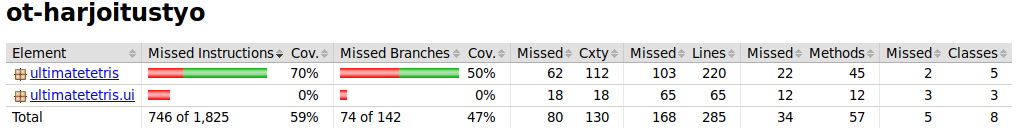
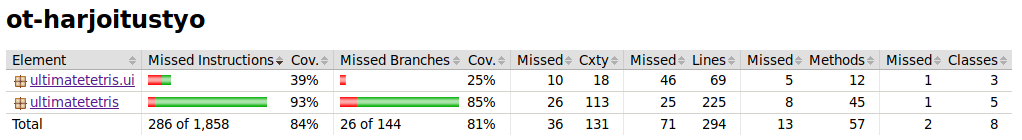
listää testejä commit

Changed region(s): [[0.0, 0.2941, 1.0, 0.9412], [0.0, 0.0, 0.2136, 0.2353]]

diff --git a/Ultimate_2D_Tetris/src/test/java/MainTest.java b/Ultimate_2D_Tetris/src/test/java/MainTest.java
@@ -22,7 +22,9 @@ import static org.junit.Assert.*;
 import ultimatetetris.Main;
 import ultimatetetris.Kentta;
 import ultimatetetris.Kuutio;
+import ultimatetetris.Logiikka;
 import ultimatetetris.Palikka;
+import ultimatetetris.ui.Ui;
 
 /**
  *
@@ -194,10 +196,59 @@ public class MainTest{
     @Test
     public void rivinpuhdistusTest() {
         Kentta ke = new Kentta(20,10);
-        Kuutio k = new Kuutio(10, 5, 30, 30, Color.BLACK, ke);
+        ke.setKohta(10, 5, 2);
+        ke.setKohta(8, 5, 2);
+        ke.setVari(10, 5, 4);
+        ke.setVari(8, 5, 3);
         
         ke.kerrosVaihto(10);
+        assertEquals(0, ke.getKohta(10,5));
+        assertEquals(1, ke.getKohta(9,5));
+        assertEquals(0, ke.getVari(10,5));
+        assertEquals(3, ke.getVari(9,5));
+        
     }
     
+    @Test
+    public void onkotaysiriviTest() {
+        Ui.addTetrisPane();
+        Logiikka.uusiKentta();
+        for (int e = 0;e<10;e++) {
+            Logiikka.getKentta().setKohta(19, e, 1);
+        }
+        Logiikka.onkoTaysiRivi();
+        for (int e = 0; e < 10; e++) {
+            assertEquals(0, Logiikka.getKentta().getKohta(19, e));
+        }
+    }
+    
+    @Test
+    public void updateTest1() {
+        Ui.addTetrisPane();
+        Logiikka.uusiKentta();
+        for (int e = 0; e < 10; e++) {
+            Logiikka.getKentta().setKohta(19, e, 1);
+        }
+        Logiikka.update();
+        for (int e = 0; e < 10; e++) {
+            assertEquals(2, Logiikka.getKentta().getKohta(19, e));
+        }
+    }
+    
+    @Test
+    public void updateTest2() {
+        Ui.addTetrisPane();
+        Logiikka.uusiKentta();
+        for (int e = 0; e < 1000; e++) {
+            Logiikka.update();
+        }
+        boolean totta = true;
+        for (int e = 0; e < 10; e++) {
+            if (Logiikka.getKentta().getKohta(19, e) != 0) {
+                totta = false;
+            }
+        }
+        assertTrue(totta);
+    }
 
 }

diff --git a/Ultimate_2D_Tetris/src/main/java/ultimatetetris/ui/Ui.java b/Ultimate_2D_Tetris/src/main/java/ultimatetetris/ui/Ui.java
@@ -91,7 +91,7 @@ public class Ui extends Application {
     }
     
     private static ArrayList<Rectangle>[] piirrettyKentta = new ArrayList[20];
-    Pane addTetrisPane() {
+    public static Pane addTetrisPane() {
         Random r = new Random();
         Color[] varit = {Color.YELLOW, Color.TEAL, Color.GREEN, Color.RED, Color.ORANGE, Color.BLUE, Color.PURPLE};
         
@@ -127,7 +127,6 @@ public class Ui extends Application {
     public static void piirrettyRemoveRivi(int q) {
         tetrisPane.getChildren().removeAll(piirrettyKentta[q]);
         piirrettyKentta[q] = piirrettyKentta[q - 1];
-
     }
     
     public static void tetrisRemove(Palikka palikka) {

diff --git a/Ultimate_2D_Tetris/src/main/java/ultimatetetris/Logiikka.java b/Ultimate_2D_Tetris/src/main/java/ultimatetetris/Logiikka.java
@@ -22,7 +22,7 @@ public class Logiikka {
     
     private static Kentta kentta;
     private static Palikka palikka;
-    private static int odotus = 0; 
+    public static int odotus = 0; 
     
     private static boolean palikkaalhaalla = true;
     
